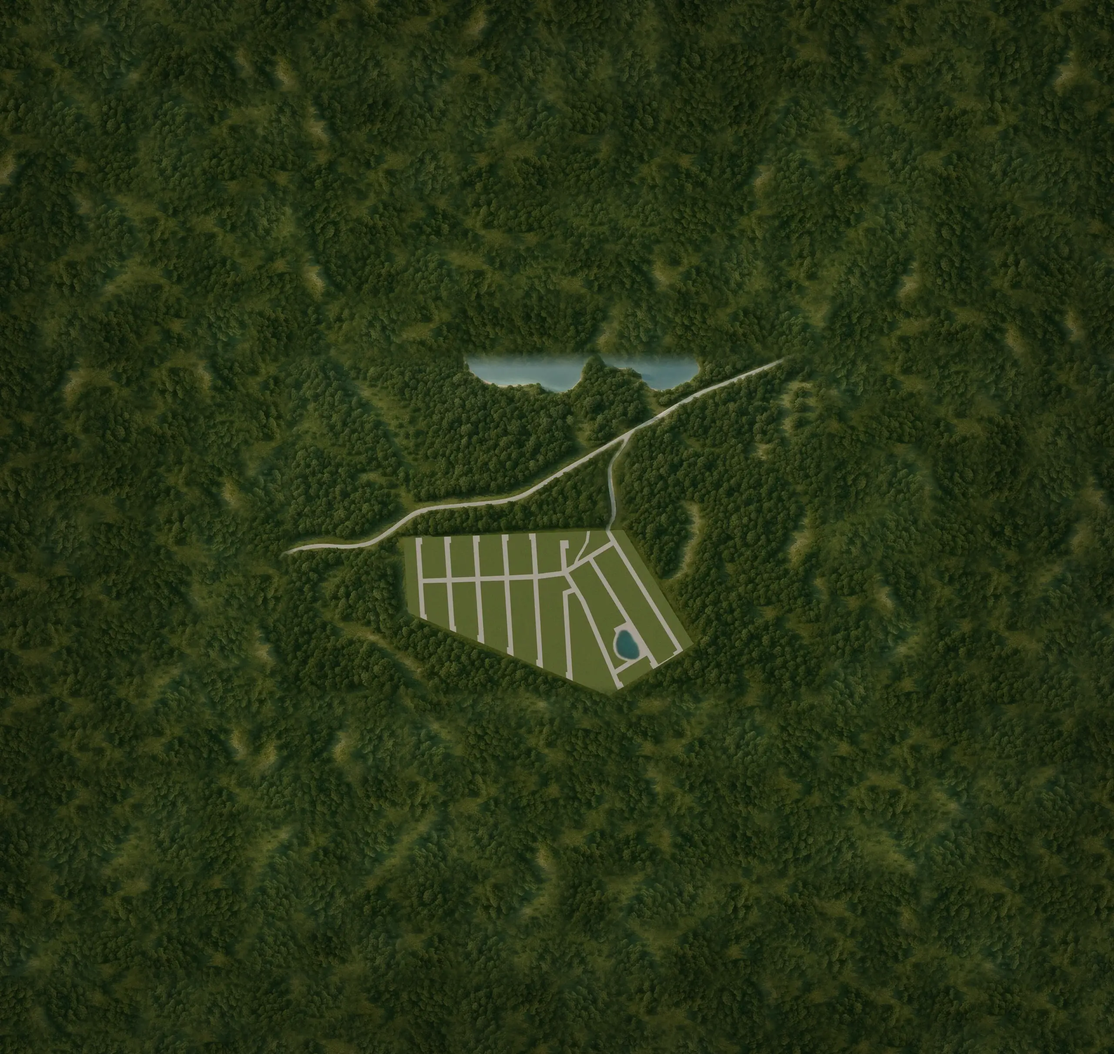
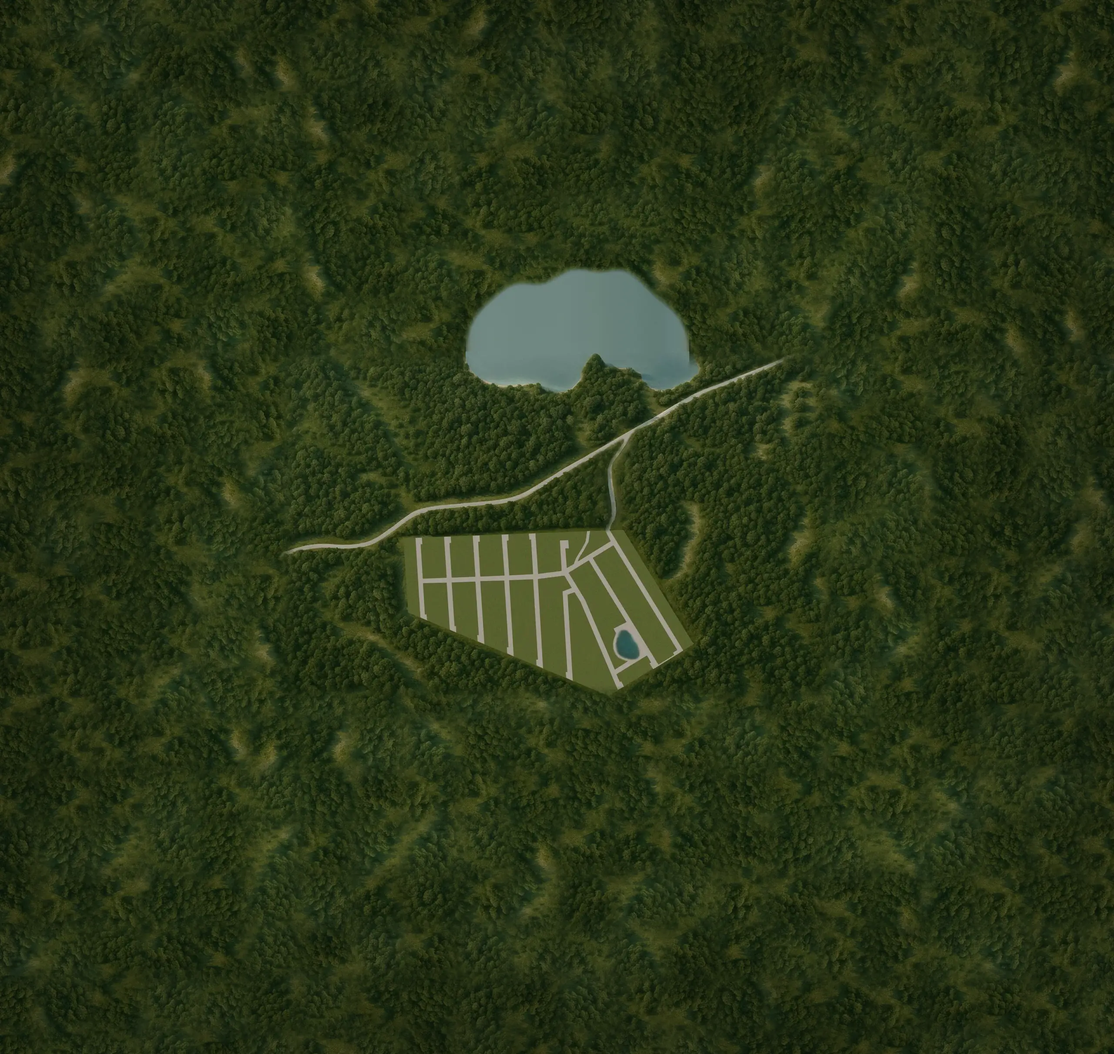
Close the lake cut by the masterplan edge

Changed region(s): [[0.4062, 0.2475, 0.625, 0.3713]]

diff --git a/index.html b/index.html
@@ -1,5 +1,5 @@
 <!doctype html>
-<html lang="ru"><head><meta charset="utf-8"><meta name="viewport" content="width=device-width,initial-scale=1"><meta name="theme-color" content="#263d32"><meta name="description" content="Коттеджный посёлок Вуолье у озера Сиркоярви во Всеволожском районе, рядом с Матоксой — 47 км от КАД. 233 участка от 6 соток, цены от 1,3 млн ₽, рассрочка до 1 года, охрана, водопровод, 15 кВт."><title>Участки у озера во Всеволожском районе — КП «Вуолье», от 1,3 млн ₽</title><link rel="icon" href="data:,"><link rel="preload" href="assets/fonts/manrope-500-normal-cyrillic.woff2" as="font" type="font/woff2" crossorigin><link rel="stylesheet" href="style.css?v=1792962193"><script src="app.js?v=1792962193" defer></script><script type="application/ld+json">{"@context": "https://schema.org", "@type": "FAQPage", "mainEntity": [{"@type": "Question", "name": "Сколько ехать от Петербурга?", "acceptedAnswer": {"@type": "Answer", "text": "Посёлок в 47 км от КАД, дорога на машине занимает около 60 минут. Последний участок подъезда — по финской брусчатке."}}, {"@type": "Question", "name": "Далеко ли озеро?", "acceptedAnswer": {"@type": "Answer", "text": "Озеро Сиркоярви в 500 метрах — 5 минут пешком. Вдоль берега — прогулочная дорожка и рекреационная зона."}}, {"@type": "Question", "name": "Какие коммуникации есть на участке?", "acceptedAnswer": {"@type": "Answer", "text": "Централизованный поселковый водопровод и электричество 15 кВт (подключение через Госуслуги). Уличное освещение, дороги 10 м с покрытием из асфальтовой крошки. Готовность по конкретному участку уточняйте у менеджера."}}, {"@type": "Question", "name": "Можно ли купить в рассрочку или ипотеку?", "acceptedAnswer": {"@type": "Answer", "text": "Да, есть рассрочка до 1 года. По ипотеке и материнскому капиталу менеджер подскажет доступные варианты для выбранного участка."}}, {"@type": "Question", "name": "Какая категория земли и можно ли строить дом?", "acceptedAnswer": {"@type": "Answer", "text": "Категорию земли, вид разрешённого использования и кадастровый номер менеджер пришлёт по выбранному участку — оставьте заявку у участка на генплане."}}, {"@type": "Question", "name": "Есть ли охрана?", "acceptedAnswer": {"@type": "Answer", "text": "Да: КПП, круглосуточный пост охраны и видеонаблюдение."}}, {"@type": "Question", "name": "Как посмотреть участок вживую?", "acceptedAnswer": {"@type": "Answer", "text": "Запишитесь на экскурсию — менеджер согласует время и покажет свободные участки на месте."}}]}</script></head>
+<html lang="ru"><head><meta charset="utf-8"><meta name="viewport" content="width=device-width,initial-scale=1"><meta name="theme-color" content="#263d32"><meta name="description" content="Коттеджный посёлок Вуолье у озера Сиркоярви во Всеволожском районе, рядом с Матоксой — 47 км от КАД. 233 участка от 6 соток, цены от 1,3 млн ₽, рассрочка до 1 года, охрана, водопровод, 15 кВт."><title>Участки у озера во Всеволожском районе — КП «Вуолье», от 1,3 млн ₽</title><link rel="icon" href="data:,"><link rel="preload" href="assets/fonts/manrope-500-normal-cyrillic.woff2" as="font" type="font/woff2" crossorigin><link rel="stylesheet" href="style.css?v=1792962417"><script src="app.js?v=1792962417" defer></script><script type="application/ld+json">{"@context": "https://schema.org", "@type": "FAQPage", "mainEntity": [{"@type": "Question", "name": "Сколько ехать от Петербурга?", "acceptedAnswer": {"@type": "Answer", "text": "Посёлок в 47 км от КАД, дорога на машине занимает около 60 минут. Последний участок подъезда — по финской брусчатке."}}, {"@type": "Question", "name": "Далеко ли озеро?", "acceptedAnswer": {"@type": "Answer", "text": "Озеро Сиркоярви в 500 метрах — 5 минут пешком. Вдоль берега — прогулочная дорожка и рекреационная зона."}}, {"@type": "Question", "name": "Какие коммуникации есть на участке?", "acceptedAnswer": {"@type": "Answer", "text": "Централизованный поселковый водопровод и электричество 15 кВт (подключение через Госуслуги). Уличное освещение, дороги 10 м с покрытием из асфальтовой крошки. Готовность по конкретному участку уточняйте у менеджера."}}, {"@type": "Question", "name": "Можно ли купить в рассрочку или ипотеку?", "acceptedAnswer": {"@type": "Answer", "text": "Да, есть рассрочка до 1 года. По ипотеке и материнскому капиталу менеджер подскажет доступные варианты для выбранного участка."}}, {"@type": "Question", "name": "Какая категория земли и можно ли строить дом?", "acceptedAnswer": {"@type": "Answer", "text": "Категорию земли, вид разрешённого использования и кадастровый номер менеджер пришлёт по выбранному участку — оставьте заявку у участка на генплане."}}, {"@type": "Question", "name": "Есть ли охрана?", "acceptedAnswer": {"@type": "Answer", "text": "Да: КПП, круглосуточный пост охраны и видеонаблюдение."}}, {"@type": "Question", "name": "Как посмотреть участок вживую?", "acceptedAnswer": {"@type": "Answer", "text": "Запишитесь на экскурсию — менеджер согласует время и покажет свободные участки на месте."}}]}</script></head>
 <body><a class="skip-link" href="#genplan">Перейти к подбору участка</a>
 <header class="header"><a href="#" class="brand" aria-label="Вуолье — наверх">vuolie<span>БЛИЖЕ К ПРИРОДЕ</span></a><button class="menu-toggle" aria-expanded="false" aria-controls="navigation" aria-label="Открыть меню">☰</button><nav id="navigation" aria-label="Разделы"><a href="#about">О посёлке</a><a href="#genplan">Генплан</a><a href="#infra">Инфраструктура</a><a href="#installment">Рассрочка</a><a href="#location">Расположение</a><a href="#faq">Вопросы</a></nav><a class="header-cta" href="#quiz">Подобрать участок</a></header>
 <main>
@@ -20,7 +20,7 @@
 <p id="anomaly-note" class="anomaly-note" hidden>Участок №78 не входит в результаты по бюджету: в источнике указано 210 000 ₽ — значительно ниже соседних, цена не подтверждена. <button type="button" id="show-78" class="link-button">Посмотреть №78</button></p>
 <div class="results-bar"><p id="result-count" role="status" aria-live="polite"></p><div class="results-tools"><div class="color-switch" role="group" aria-label="Раскраска плана"><span>Цвет:</span><button type="button" id="color-status" aria-pressed="true">статус</button><button type="button" id="color-price" aria-pressed="false">цена</button></div><div class="view-switch" role="group" aria-label="Вид"><button type="button" id="view-map" aria-pressed="true">План</button><button type="button" id="view-list" aria-pressed="false">Таблица</button></div><div class="shortlist-wrap"><button type="button" id="shortlist-toggle" class="shortlist-toggle" aria-expanded="false" aria-controls="shortlist">♥ <span id="shortlist-count">0</span></button><section id="shortlist" class="shortlist" hidden aria-labelledby="shortlist-title"><h3 id="shortlist-title" tabindex="-1">Избранное</h3><ul id="shortlist-items"></ul><p id="shortlist-empty" class="small muted">Нажимайте ♡ на участках, чтобы сравнить их и запросить информацию сразу по всем.</p><button type="button" id="request-shortlist" class="button gold wide" hidden>Запросить по избранному</button></section></div></div></div>
 <div class="stage">
-<div id="map-panel" class="map-card"><div class="map-viewport" id="map-viewport" tabindex="0" aria-label="Генплан. Стрелки — перемещение, плюс и минус — масштаб. Нажмите Tab, чтобы перейти к участкам." aria-describedby="map-help"><svg id="masterplan" role="group" aria-label="Подлинный генплан Вуолье, участки"><image href="assets/forest-bg.webp" x="-1843.05" y="-2326.85" width="7372.2" height="6980.55" preserveAspectRatio="none"/><image href="assets/masterplan-soft.webp" width="3686.1" height="2326.85"/><g id="plots" tabindex="-1"></g><polygon id="selection-ring" class="ring selection" points=""/><g id="focus-ring" class="ring-focus" hidden><polygon class="ring outer" points=""/><polygon class="ring inner" points=""/></g></svg></div>
+<div id="map-panel" class="map-card"><div class="map-viewport" id="map-viewport" tabindex="0" aria-label="Генплан. Стрелки — перемещение, плюс и минус — масштаб. Нажмите Tab, чтобы перейти к участкам." aria-describedby="map-help"><svg id="masterplan" role="group" aria-label="Подлинный генплан Вуолье, участки"><image href="assets/forest-bg.webp?v=1792962417" x="-1843.05" y="-2326.85" width="7372.2" height="6980.55" preserveAspectRatio="none"/><image href="assets/masterplan-soft.webp?v=1792962417" width="3686.1" height="2326.85"/><g id="plots" tabindex="-1"></g><polygon id="selection-ring" class="ring selection" points=""/><g id="focus-ring" class="ring-focus" hidden><polygon class="ring outer" points=""/><polygon class="ring inner" points=""/></g></svg></div>
 <div class="map-overlay-controls"><div class="zoom-controls"><button type="button" id="zoom-in" aria-label="Увеличить генплан">+</button><button type="button" id="zoom-out" aria-label="Уменьшить генплан">−</button><button type="button" id="zoom-reset" aria-label="Показать все участки">⤢</button></div><button type="button" id="fs-toggle" class="fs-toggle" aria-label="Открыть генплан на весь экран">⛶</button></div><div class="fs-bar" id="fs-bar"><div class="fs-top"><button type="button" id="fs-close" class="fs-close" aria-label="Закрыть генплан">←</button><div class="fs-title"><strong>Генплан</strong><span id="fs-count"></span></div><div class="color-switch fs-color" role="group" aria-label="Раскраска"><button type="button" data-color="status" aria-pressed="true">статус</button><button type="button" data-color="price" aria-pressed="false">цена</button></div></div><div class="chips fs-chips" id="fs-chips"><button type="button" data-area="all" aria-pressed="true">Любая</button><button type="button" data-area="6-7" aria-pressed="false">6–7 сот.</button><button type="button" data-area="7-10" aria-pressed="false">7–10</button><button type="button" data-area="10-99" aria-pressed="false">10+</button><button type="button" data-fsstatus="saved" aria-pressed="false">♥ Избранное</button></div></div><button type="button" id="map-open" class="map-open">Открыть генплан <span aria-hidden="true">⛶</span></button>
 <div id="map-tip" class="map-tip" hidden aria-hidden="true"></div>
 <div class="map-legend" id="legend-status"><span><i></i>В продаже</span><span><i class="sold"></i>Продан</span><span><i class="fav"></i>Избранное</span></div>
